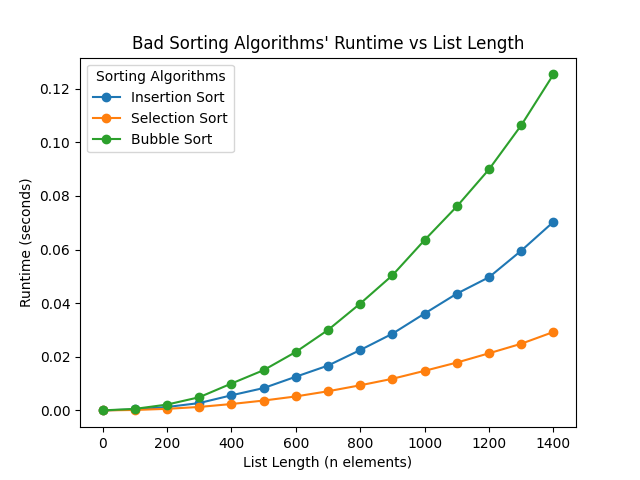
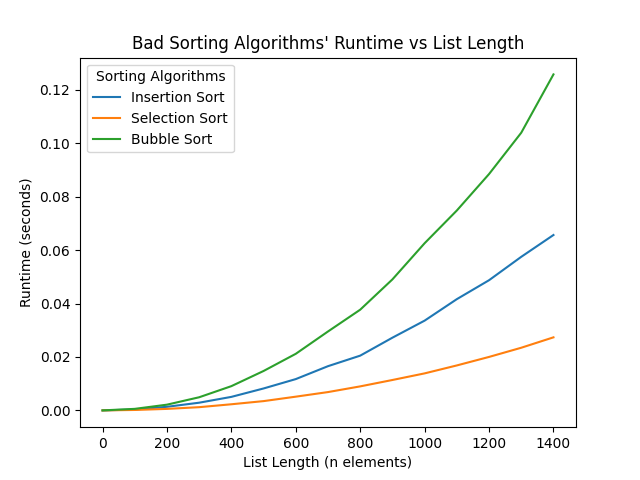
Cleanup

diff --git a/Lab 1/Experiment 1/Experiment 1.py b/Lab 1/Experiment 1/Experiment 1.py
@@ -55,9 +55,9 @@ def test_allSorts(test_runs, average_runs, increaseList_factor):
 
 
     # plots the runtimes of the 3 sorting algorithms with the following legends and axis titles
-    plot.plot(list_lens, Insertion_times, marker='o', label='Insertion Sort')
-    plot.plot(list_lens, Selection_times, marker='o', label='Selection Sort')
-    plot.plot(list_lens, Bubble_times, marker='o', label='Bubble Sort')
+    plot.plot(list_lens, Insertion_times, label='Insertion Sort')
+    plot.plot(list_lens, Selection_times, label='Selection Sort')
+    plot.plot(list_lens, Bubble_times, label='Bubble Sort')
     plot.legend(loc='upper left', title='Sorting Algorithms', fontsize=10)
     plot.xlabel('List Length (n elements)')
     plot.ylabel('Runtime (seconds)')
